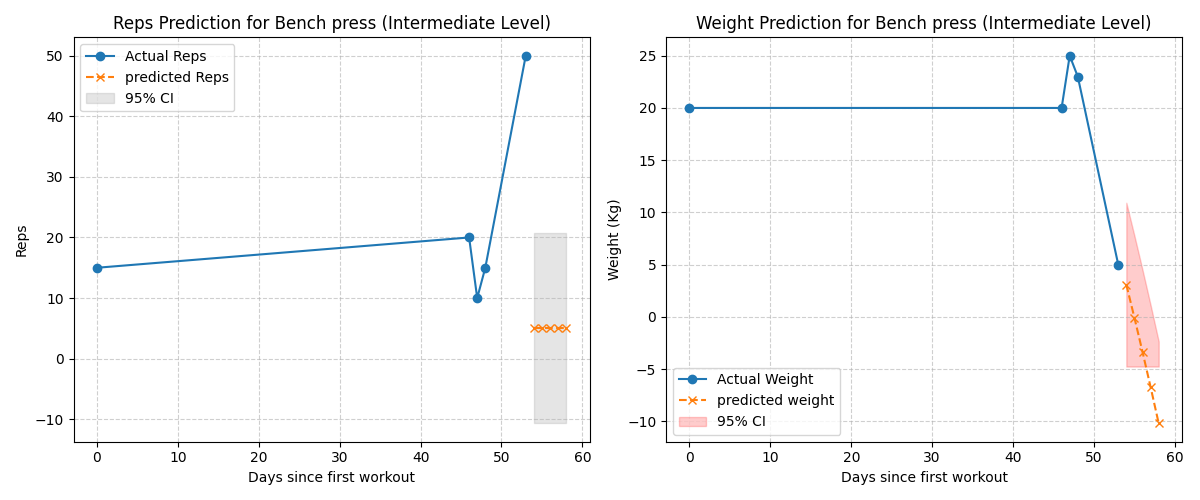
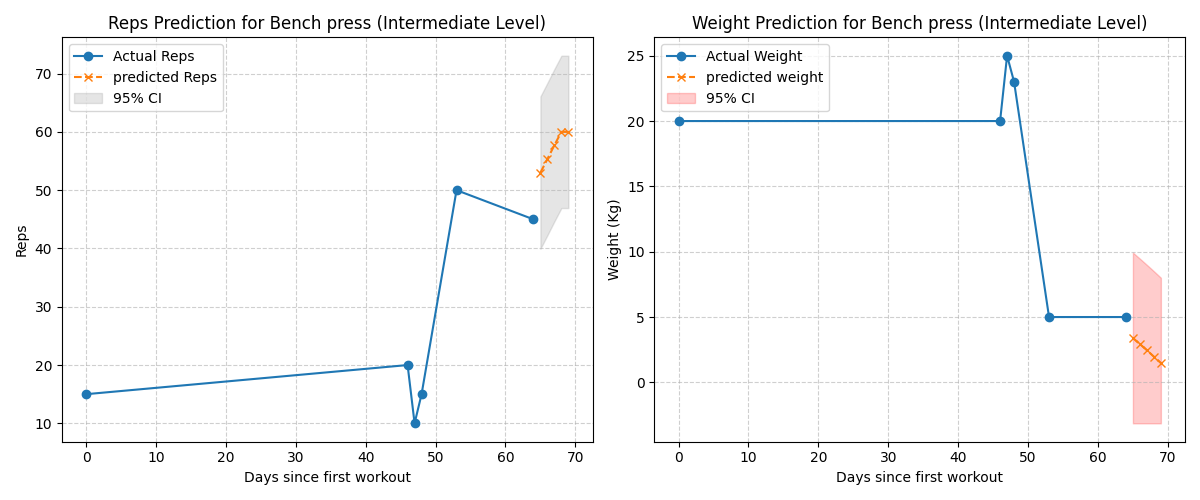
Please

diff --git a/predictor.py b/predictor.py
@@ -110,20 +110,18 @@ def predict_targets(dates, reps, weights, user_level="intermediate", degree=2):
    # basic if condition if user achieves 90% of the max reps or weights
    # They can ugrade to the next level
     if user_level == "intermediate":
-        max_reps, max_weights = 60, 20
+        max_reps, max_weights = 150, 80
     elif user_level == "expert":
-        max_reps, max_weights = 100, 70
+        max_reps, max_weights = 150, 120
     else: # user level is defaulted to intermediate
-        max_reps, max_weights = 60, 20
+        max_reps, max_weights = 150, 80
 
     if reps[-1] >= 0.9 * max_reps or weights[-1] >= 0.9 * max_weights: # sets 90% threshold
         user_level = "expert"
-        max_reps, max_weights = 100, 70
+        max_reps, max_weights = 150, 120
     # Makes sure that these predictions are capped at a certain level
     
-  # This ensures predictions do not exceed max levels
-    future_reps = np.minimum(future_reps, max_reps)
-    future_weights = np.minimum(future_weights, max_weights)
+  
     # Next we calculate the 95% confidence intervals
     # this shows that these predictions are approximations
     # not certain values just to help users to plan workouts
